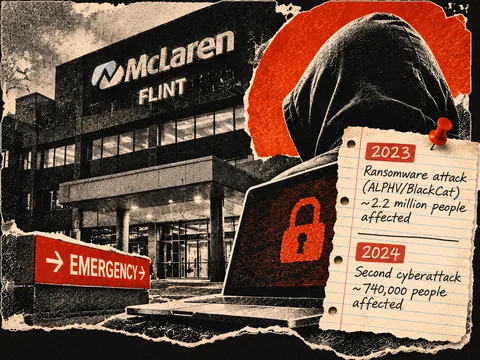
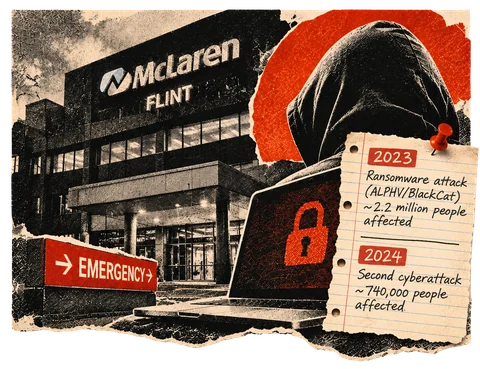
McLaren cover: use Jamiah's v2 collage (transparent torn-edge background)

diff --git a/src/data/covers.js b/src/data/covers.js
@@ -13,7 +13,7 @@ export const SEO_COVERS = {
   mclaren: {
     filePrefix: 'cover-mclaren-1536',
     width: 1536,
-    height: 1153,
+    height: 1182,
     type: 'image/webp',
     alt: 'Cover collage: the McLaren Flint hospital building with a red \u201cEmergency\u201d sign, a hooded figure in front of a red sun behind a laptop showing a padlock, and a pinned note reading \u201c2023: Ransomware attack (ALPHV/BlackCat), ~2.2 million people affected\u201d and \u201c2024: Second cyberattack, ~740,000 people affected\u201d.',
   },
